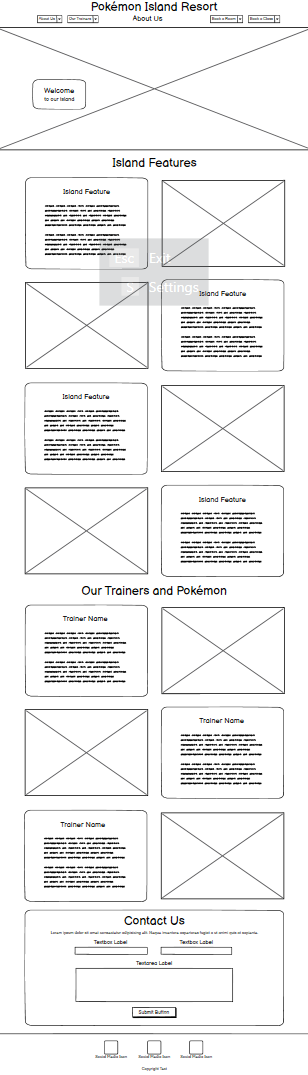
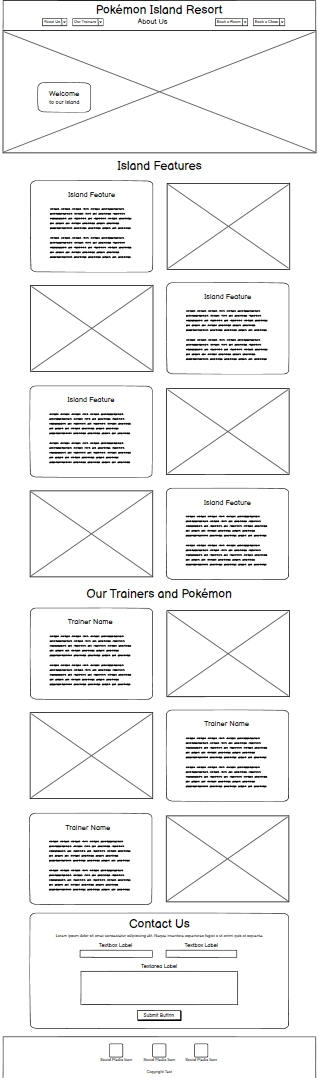
Amend wireframe home page images to include edges and not be in table

diff --git a/README.md b/README.md
@@ -120,11 +120,20 @@ A typical customer for the Pokémon Island Resort is:
 <details>
 <summary>Home Page Wireframe Images</summary>
 
-| Home Page on large screens (laptops & larger): | Home Page on smaller screens (mobile & tablet): |
+Home Page on large screens (laptops & larger):
+
+![Home Page Wireframe - large screens](assets/images/readme/wireframes/wireframe-large-home-page.png)
+
+Home Page on smaller screens (mobile & tablet):
+
+![Home Page Wireframe - small screens](assets/images/readme/wireframes/wireframe-small-home-page.png)
+
+<!-- | Home Page on large screens (laptops & larger): | Home Page on smaller screens (mobile & tablet): |
 | :---: | :---: |
 |  | *I have removed some of the duplicate text bubbles that will be on the finished website so that the image isn't too long* |
-| ![Home Page Wireframe - large screens](assets/images/readme/wireframes/wireframe-large-home-page.png) | ![Home Page Wireframe - small screens](assets/images/readme/wireframes/wireframe-small-home-page.png) |
+| ![Home Page Wireframe - large screens](assets/images/readme/wireframes/wireframe-large-home-page.png) | ![Home Page Wireframe - small screens](assets/images/readme/wireframes/wireframe-small-home-page.png) | -->
 </details>
+![alt text](image.png)
 
 <details>
 <summary>Rooms Page Wireframe Images</summary>
